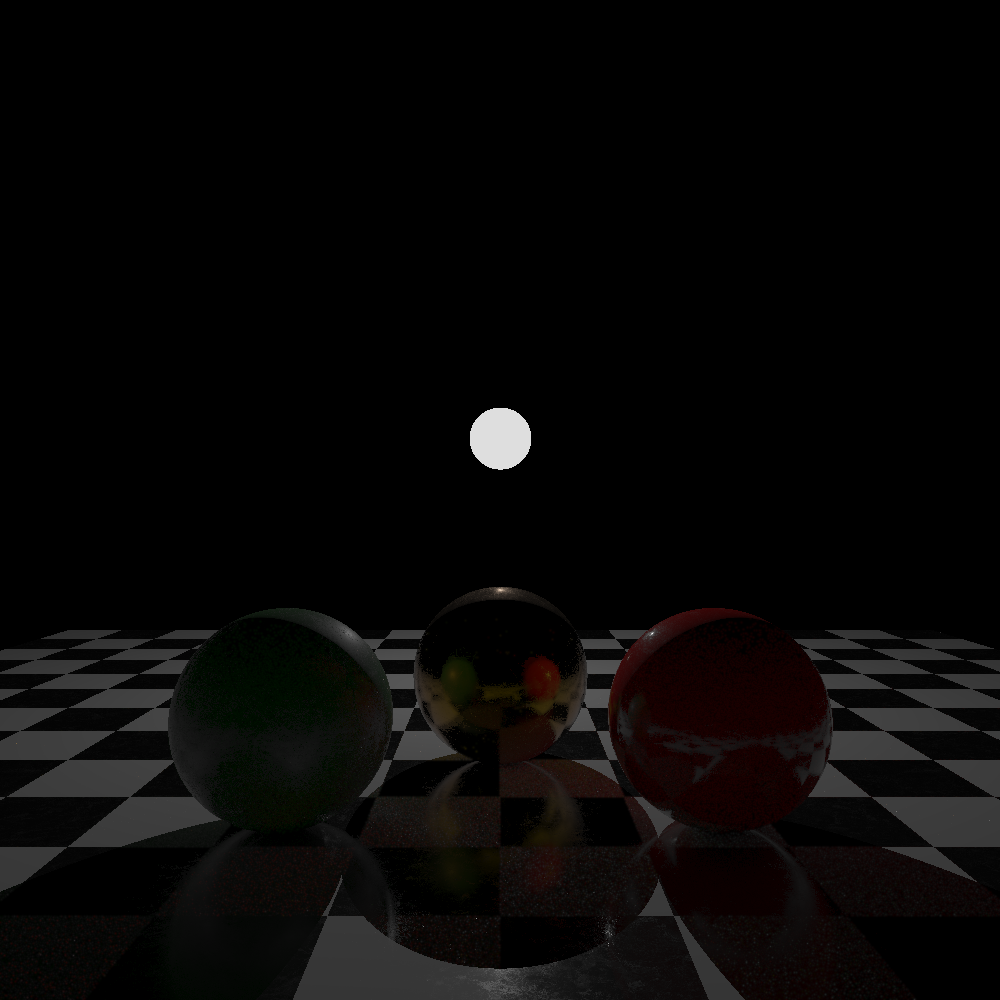
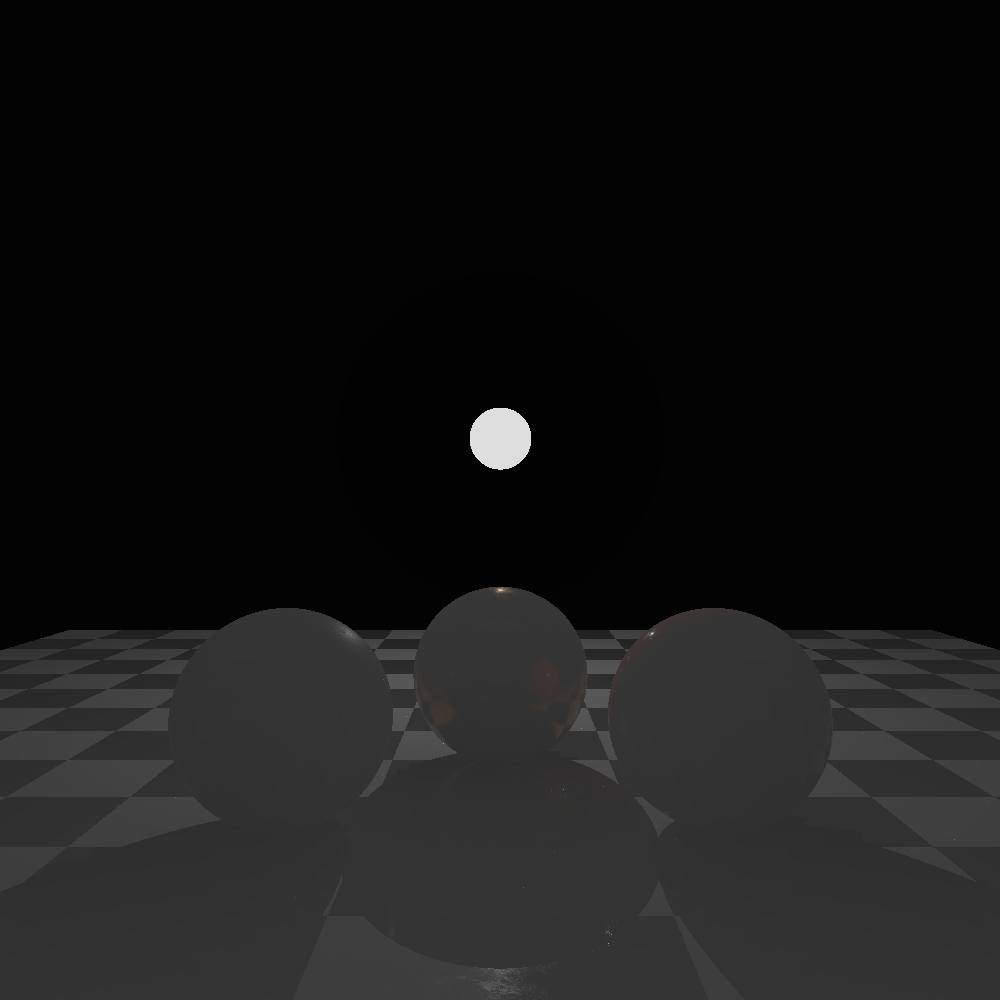
first tries to render non-inverted volumetrics

diff --git a/src/cgg/RayTracer.java b/src/cgg/RayTracer.java
@@ -197,10 +197,10 @@ public class RayTracer implements Sampler
 		Hit __Recent = _recentIntersection(ray,depth);
 
 		// intersection colour
-		Color gx = Config.CLEARCOLOUR;
+		Color __GX = Config.CLEARCOLOUR;
 		if (__Recent!=null)
 		{
-			gx = switch (__Recent.material())
+			__GX = switch (__Recent.material())
 			{
 			case PhysicalMaterial c -> _shadePhysical(__Recent,ray,coord,depth);
 			case SurfaceMaterial c -> _shadePhong(__Recent);
@@ -210,8 +210,8 @@ public class RayTracer implements Sampler
 		}
 
 		// combine with volumetric component
-		Color vx = _computeVolumetric(ray,__Recent);
-		return add(gx,vx);
+		if (depth==0) __GX = add(__GX,_computeVolumetric(ray,__Recent));
+		return __GX;
 	}
 
 	private Hit _recentIntersection(Ray ray,int depth)
@@ -465,10 +465,11 @@ public class RayTracer implements Sampler
 		Color out = color(0);
 
 		// fallback to maximum range when no geometric intersection
-		if (hit==null) hit = new Hit(10000,ray.calculatePosition(10000),vec2(0,0),vec3(0),null);
+		if (hit==null) hit = new Hit(1000,ray.calculatePosition(1000),vec2(0,0),vec3(0),null);
 
 		// raymarching until intersection
 		double n = .0;
+		Color __Weight = color(0);
 		while (n<hit.param())
 		{
 			// iterate lightsources
@@ -482,11 +483,13 @@ public class RayTracer implements Sampler
 				Hit __Obfuscation = _recentIntersection(__Ray,1);
 
 				// accumulate volumetric result
-				if (__Obfuscation.param()>1) out = add(out,p_Light.intensity(__RayPosition));
+				Color i = p_Light.intensity(__RayPosition);
+				if (__Obfuscation==null||__Obfuscation.param()>1) out = multiply(.01,add(out,i));
+				__Weight = add(__Weight,i);
 			}
-			n += .01;
+			n += .1;
 		}
 
-		return out;
+		return divide(out,__Weight);
 	}
 }

diff --git a/src/tools/Functions.java b/src/tools/Functions.java
@@ -646,6 +646,10 @@ public class Functions {
         return color(a.r() / s, a.g() / s, a.b() / s);
     }
 
+	public static Color divide(Color a,Color b) {
+		return color(a.r()/b.r(),a.g()/b.g(),a.b()/b.b());
+	}
+
     /**
      * Clamps the components of a Color to the range [0, 1].
      *
